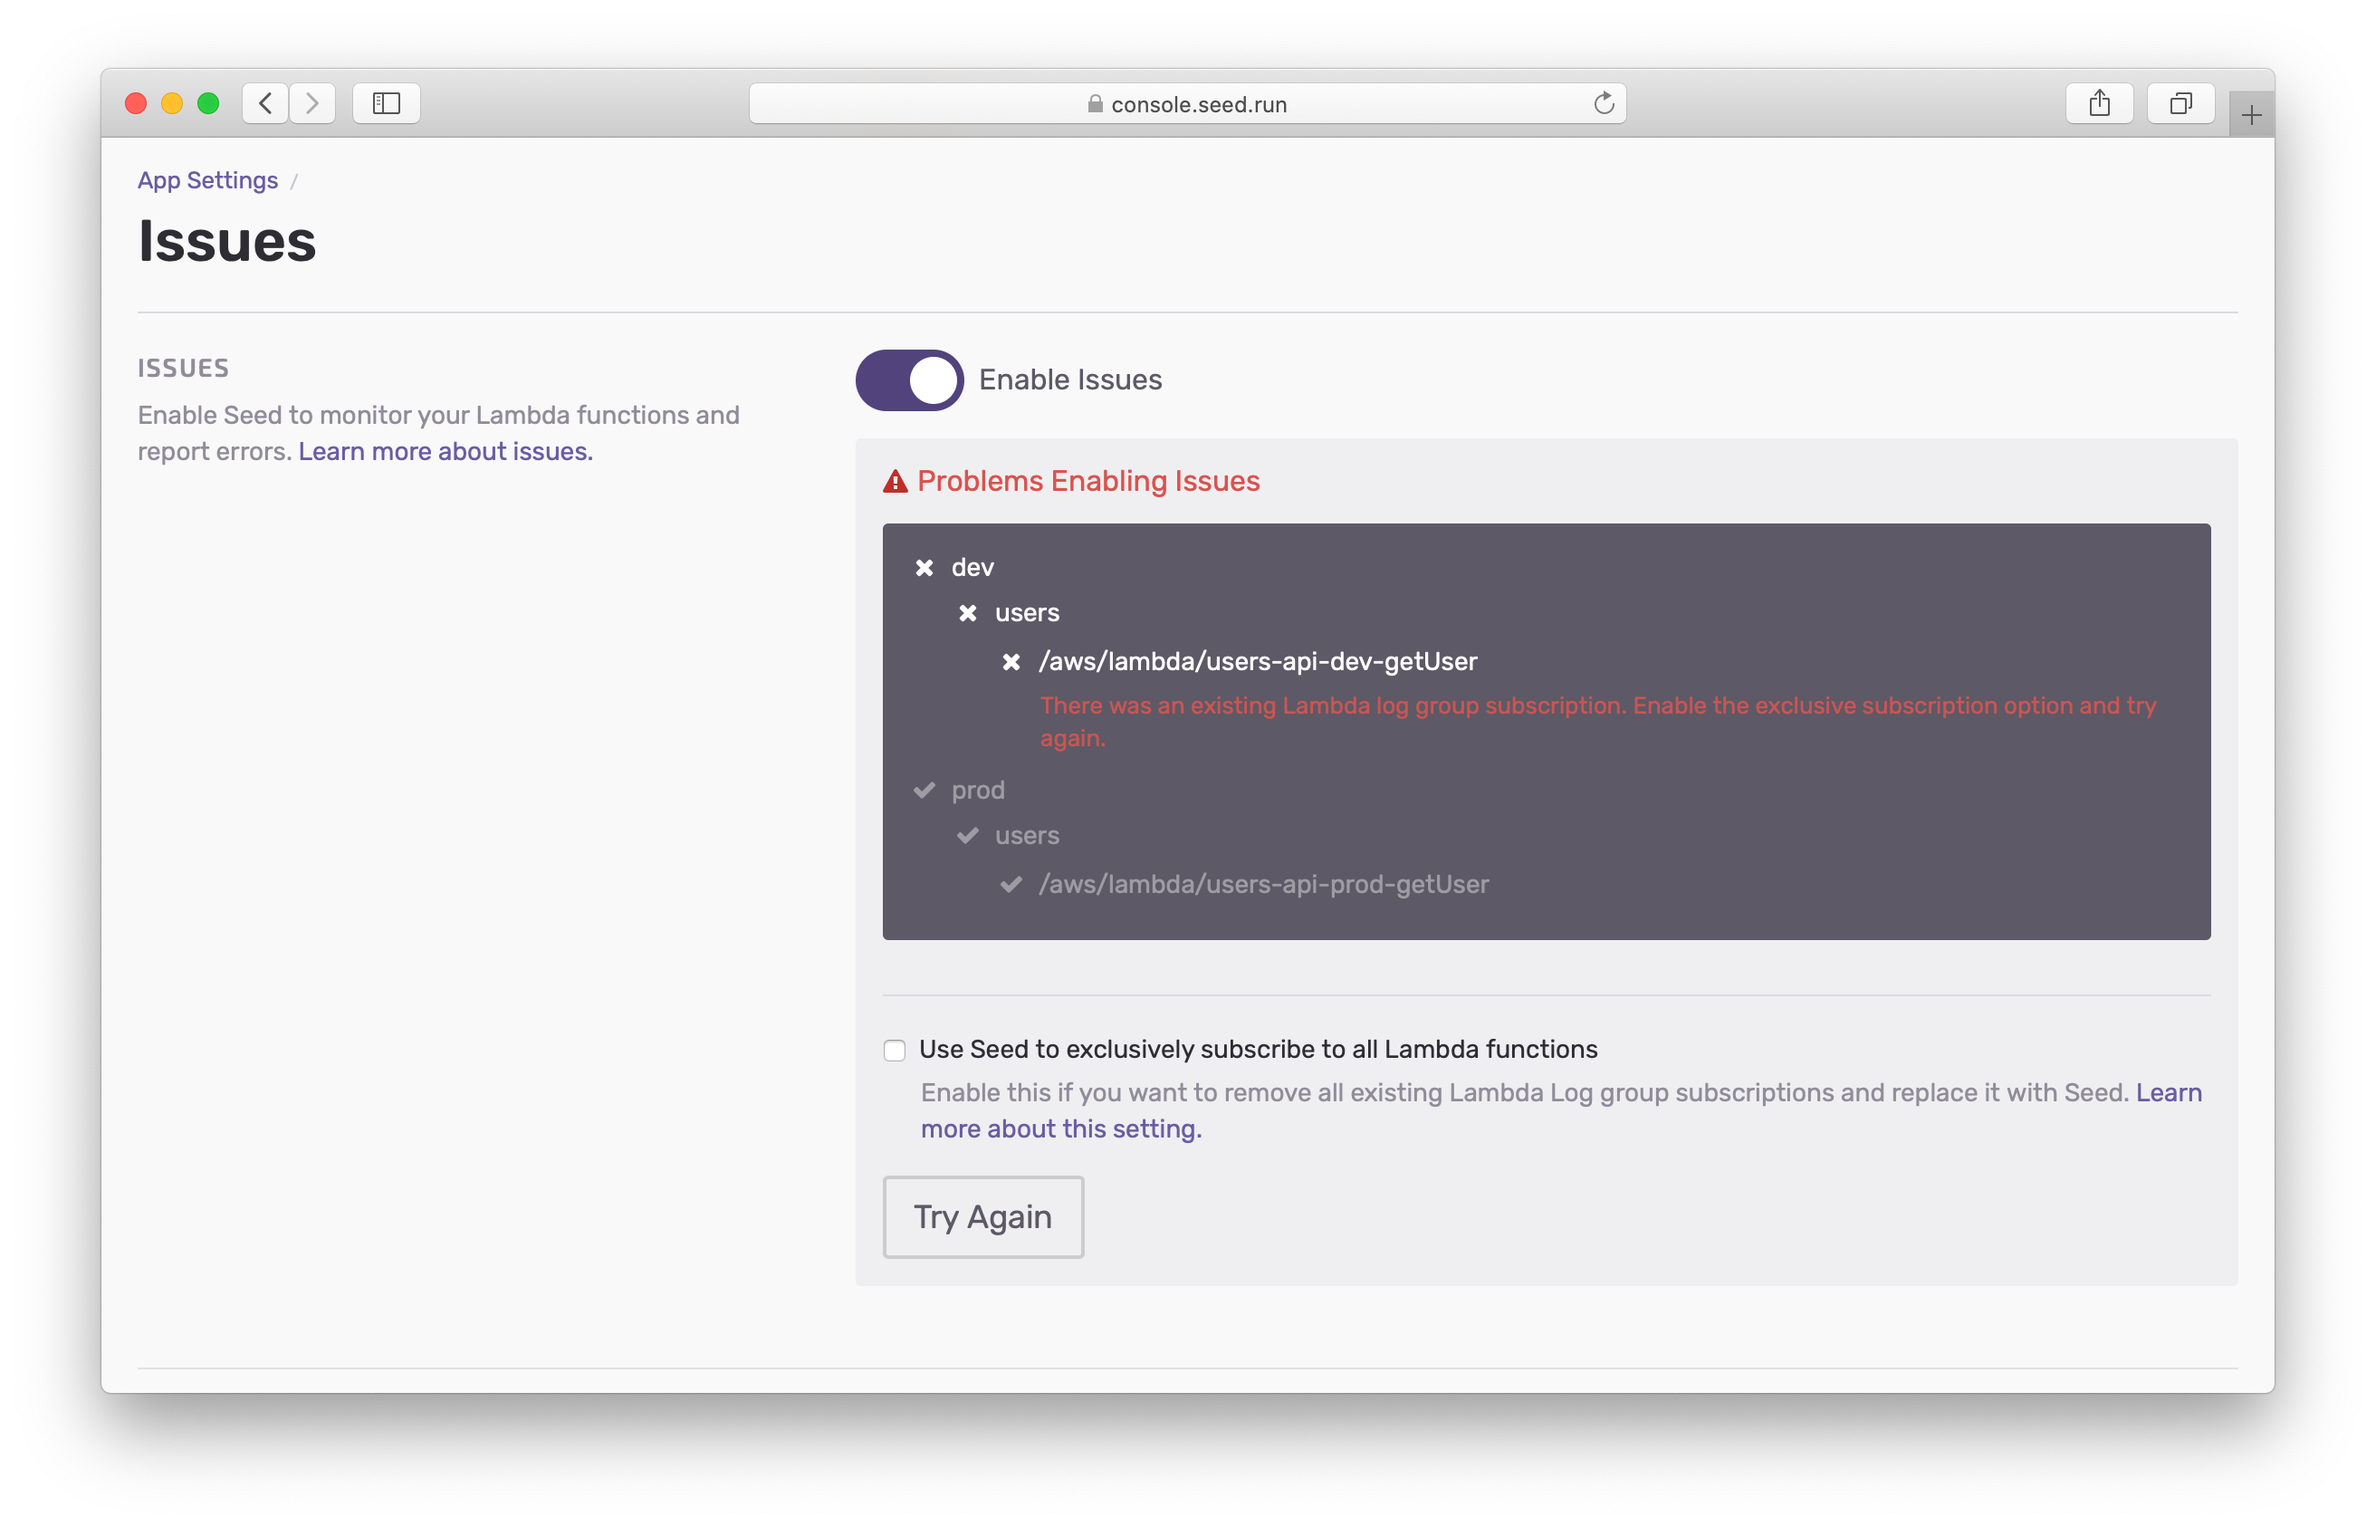
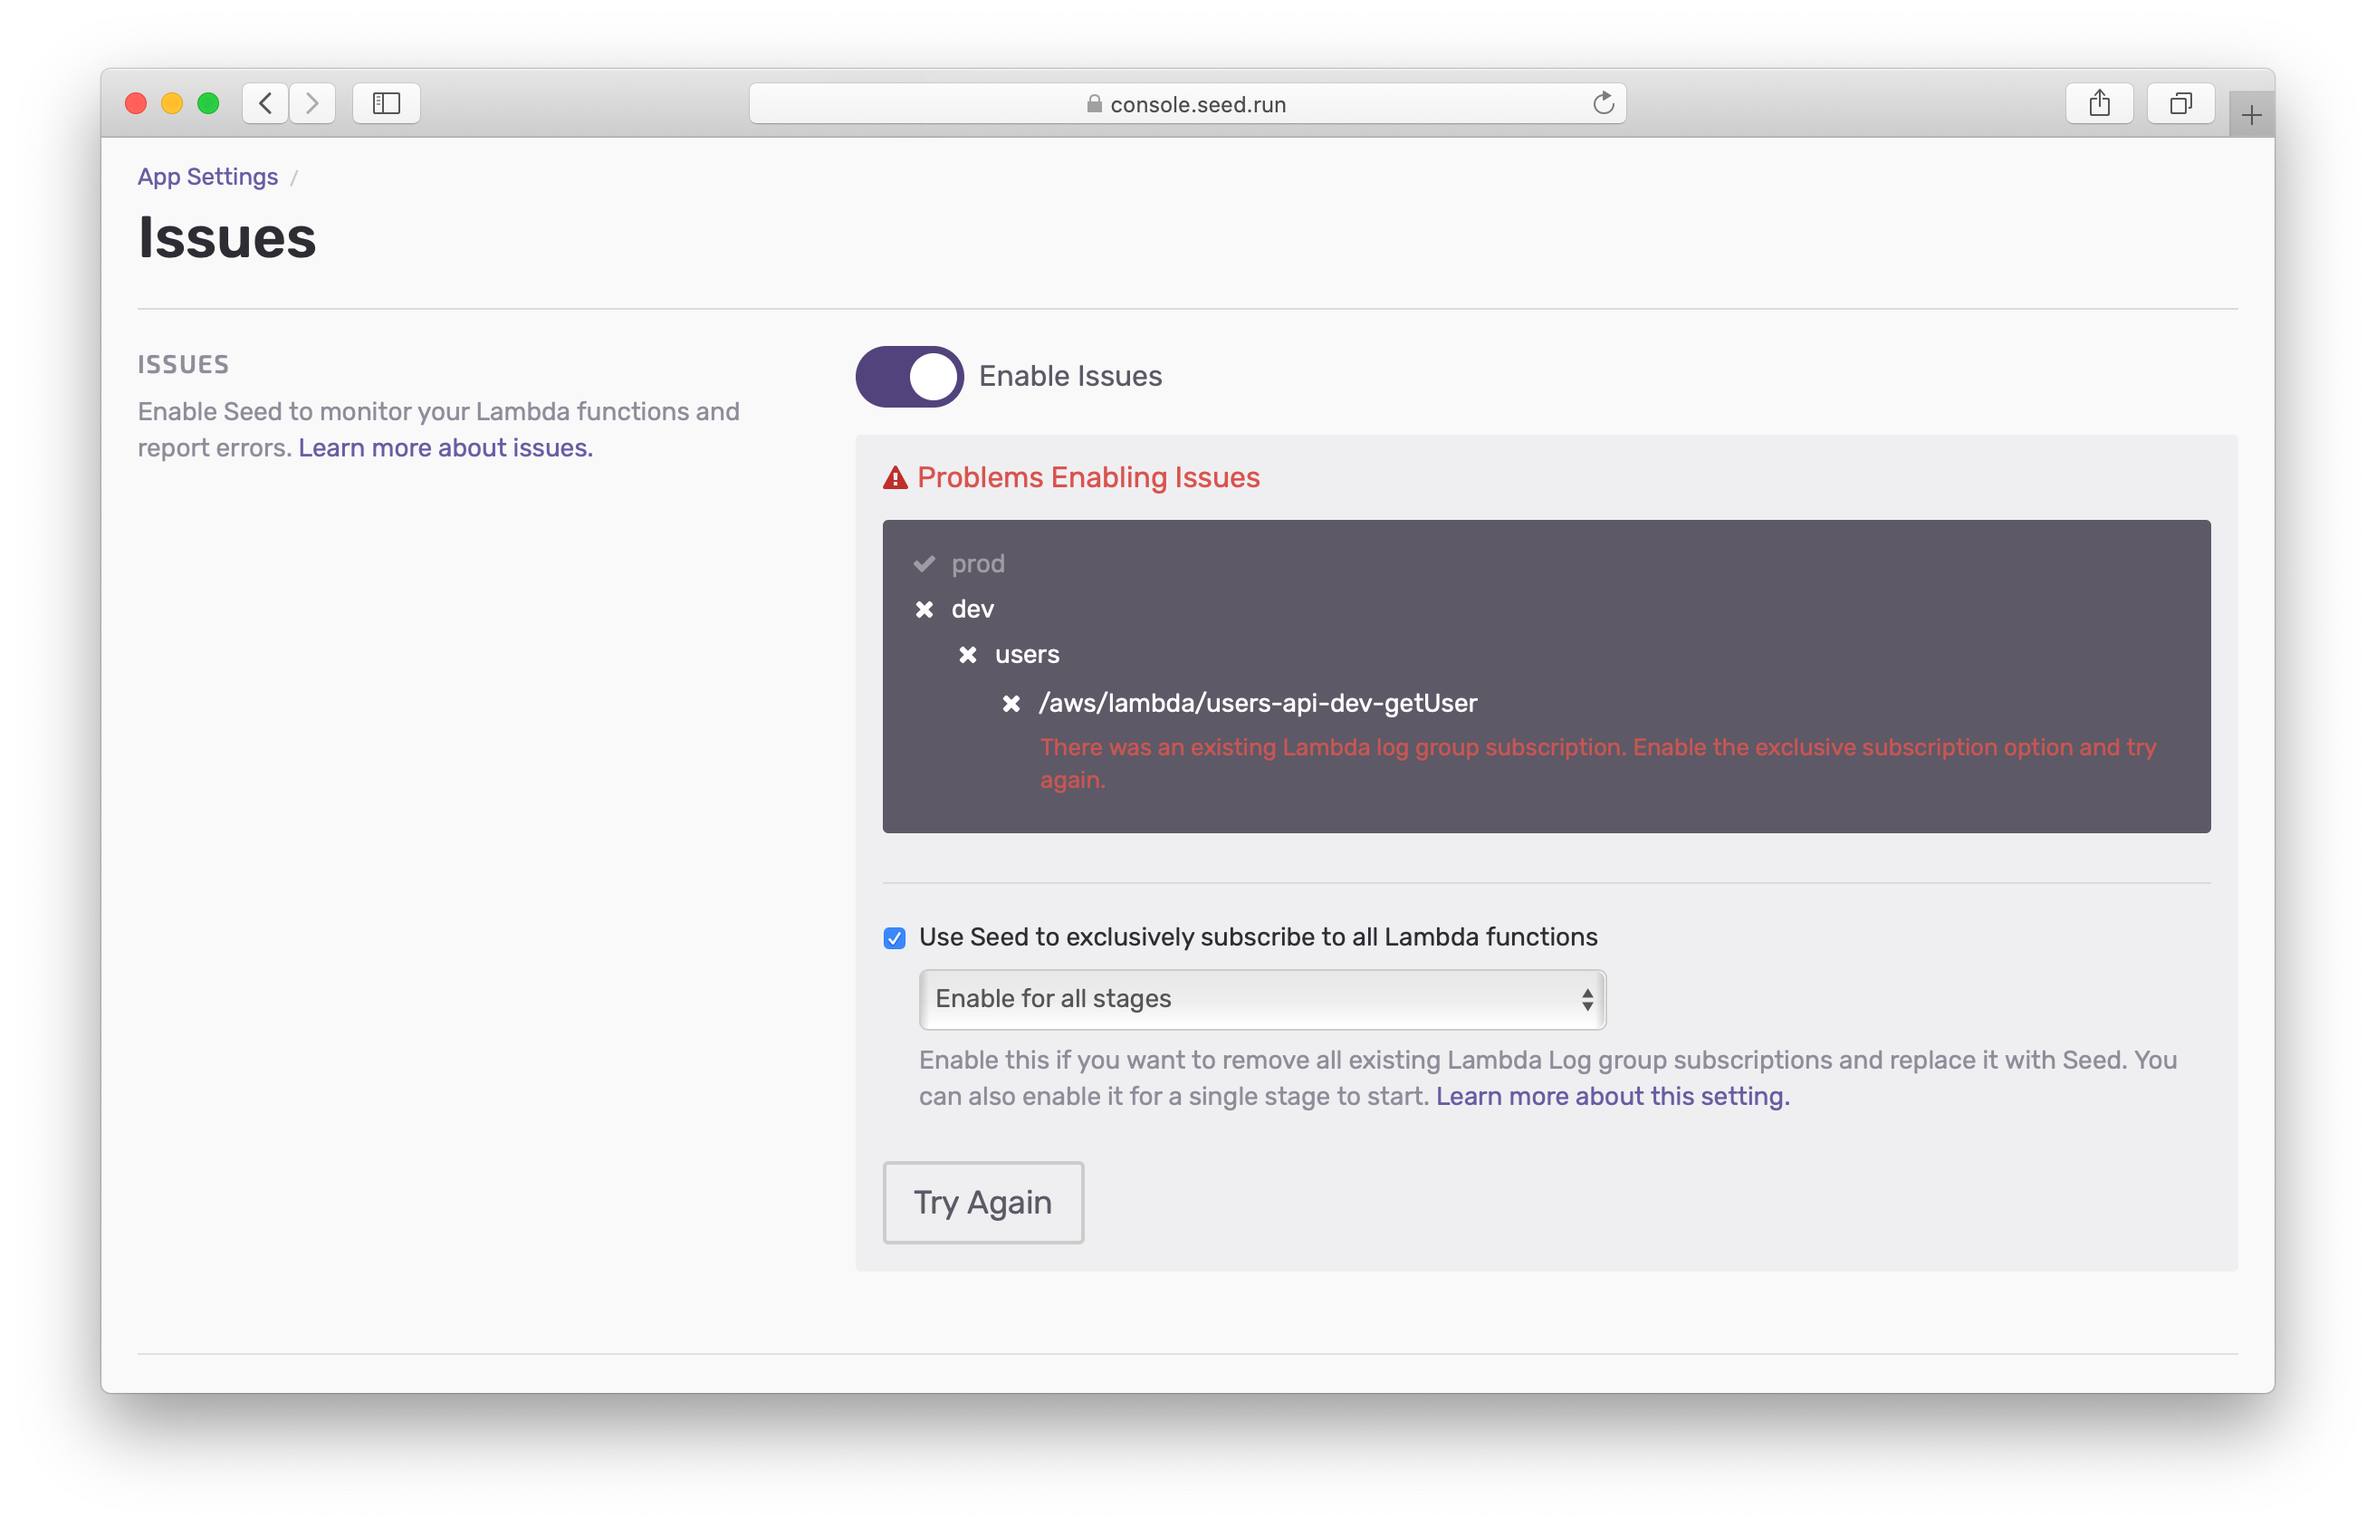
Updating docs with retry issues

diff --git a/_docs/issues-and-alerts.md b/_docs/issues-and-alerts.md
@@ -59,7 +59,7 @@ Note that, CloudWatch log groups can only have 1 subscriber. This means that if 
 
 ![Enable issues with exclusive flag](/assets/docs/issues-and-alerts/enable-issues-with-exclusive-flag.png)
 
-This setting tells Seed to remove any existing subscriptions before enabling Issues.
+This setting tells Seed to remove any existing subscriptions before enabling Issues. You can also optionally select a stage that you want to enable it for. This will allow you to try out Issues without having to remove the existing subscriptions from your production environment.
 
 If you are looking for a way to setup Issues while still keeping your existing subscriptions, [get in touch with us](mailto:{{ site.email }}). 
 
